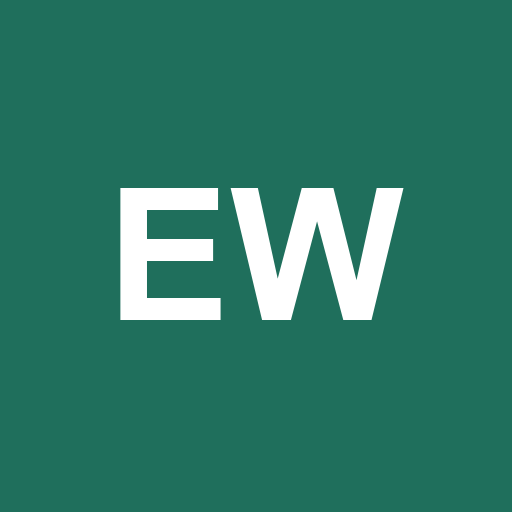
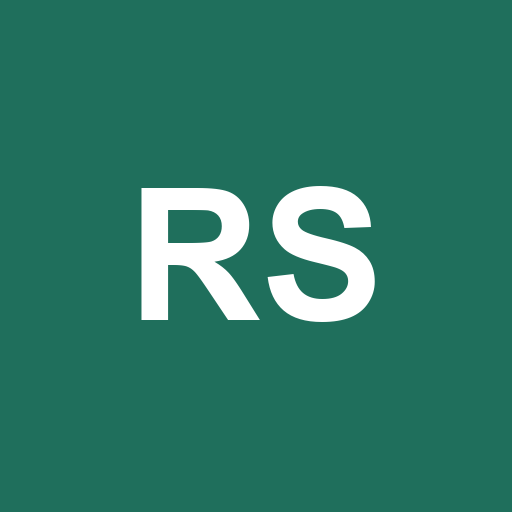
Publicación 20261031-1249-d135cdb

Changed region(s): [[0.2188, 0.3438, 0.7812, 0.6562]]

diff --git a/index.html b/index.html
@@ -6,33 +6,110 @@
   <meta name="theme-color" content="#1f6f5c">
   <!-- App interna: que no aparezca en buscadores -->
   <meta name="robots" content="noindex, nofollow">
-  <title>English for Waiters</title>
+  <title>Restaurant Service Excellence App</title>
   <link rel="stylesheet" href="css/styles.css">
   <!-- Instalar en el celular como app (manifest.webmanifest) -->
   <link rel="manifest" href="manifest.webmanifest">
   <link rel="icon" href="images/app/icon-192.png">
   <link rel="apple-touch-icon" href="images/app/apple-touch-icon.png">
   <meta name="apple-mobile-web-app-capable" content="yes">
-  <meta name="apple-mobile-web-app-title" content="Waiters English">
+  <meta name="apple-mobile-web-app-title" content="Restaurant Excellence">
+  <!-- Pantalla de bienvenida: cae una gota de vino y hace ondas; de ahí salen la campana y los cubiertos, y después el nombre de la app (se quita sola) -->
+  <style>
+    .splash { position: fixed; inset: 0; z-index: 1000; display: flex; flex-direction: column; align-items: center; justify-content: center;
+      background: radial-gradient(circle at 50% 38%, #2f9c82 0%, #1f6f5c 45%, #0d3a30 100%); color: #fff;
+      font-family: -apple-system, BlinkMacSystemFont, "Segoe UI", Helvetica, Arial, sans-serif; transition: opacity .55s ease, transform .55s ease; overflow: hidden; }
+    .splash.fuera { opacity: 0; transform: scale(1.06); pointer-events: none; }
+    .splash-logo { position: relative; width: 210px; height: 210px; animation: sp-emerge 1s cubic-bezier(.2, 1.4, .4, 1) .4s both; }
+    .splash-logo::before { content: ""; position: absolute; inset: 10px; border-radius: 50%; border: 2px solid rgba(255, 255, 255, .55);
+      animation: sp-onda 1.6s ease-out .75s both; }
+    .splash-logo svg { width: 100%; height: 100%; overflow: visible; filter: drop-shadow(0 10px 22px rgba(3, 25, 20, .5)); }
+    .sp-centro { transform-origin: 256px 346px; animation: sp-crece .7s cubic-bezier(.3, 1.5, .5, 1) .65s both; }
+    .sp-izq { transform-origin: 256px 346px; animation: sp-izq .75s cubic-bezier(.3, 1.4, .5, 1) .9s both; }
+    .sp-der { transform-origin: 256px 346px; animation: sp-der .75s cubic-bezier(.3, 1.4, .5, 1) .9s both; }
+    .sp-agua { stroke-dasharray: 260; animation: sp-dibuja .8s ease-out 1.15s both; }
+    /* Destello de luz cuando la estrella llega a la campana */
+    .sp-luz { transform-origin: 256px 110px; animation: sp-luz 1.1s ease-out 2.05s both; }
+    .sp-rayos { transform-origin: 256px 110px; animation: sp-rayos 1s ease-out 2.1s both; }
+    .sp-chispas { transform-origin: 256px 110px; animation: sp-chispas 1.2s ease-out 2.15s both; }
+    .splash::after { content: ""; position: absolute; inset: 0; pointer-events: none; opacity: 0;
+      background: radial-gradient(circle at 50% 40%, rgba(255, 244, 205, .55), rgba(255, 244, 205, 0) 60%); animation: sp-brillo 1s ease-out 2.08s both; }
+    @keyframes sp-luz { 0% { transform: scale(0); opacity: 0; } 25% { opacity: 1; } 100% { transform: scale(1.7); opacity: 0; } }
+    @keyframes sp-rayos { 0% { transform: scale(.3) rotate(-15deg); opacity: 0; } 30% { opacity: 1; } 100% { transform: scale(1.6) rotate(20deg); opacity: 0; } }
+    @keyframes sp-chispas { 0% { transform: scale(.2); opacity: 0; } 35% { opacity: 1; } 100% { transform: scale(1.5) rotate(30deg); opacity: 0; } }
+    @keyframes sp-brillo { 0% { opacity: 0; } 20% { opacity: 1; } 100% { opacity: 0; } }
+    .sp-estrella { transform-origin: 256px 110px; animation: sp-estrella .8s cubic-bezier(.3, 1.6, .5, 1) 1.4s both, sp-brilla 1.4s ease-in-out 2.2s infinite; }
+    .splash-nombre { margin-top: 6px; text-align: center; }
+    .splash-nombre b { display: block; font-size: 30px; font-weight: 800; letter-spacing: .5px; animation: sp-texto .7s ease-out 1.75s both; }
+    .splash-nombre span { display: block; margin-top: 4px; font-size: 15px; font-weight: 600; letter-spacing: 6px; text-transform: uppercase; color: #f2c96b;
+      animation: sp-texto .7s ease-out 2s both; }
+    .splash-linea { width: 0; height: 2px; margin: 14px auto 0; border-radius: 2px; background: #f2c96b; animation: sp-linea .8s ease-out 2.25s both; }
+    /* Gota de vino: cae al centro de la campana y abre ondas que cruzan la pantalla */
+    .splash-agua { position: absolute; left: 50%; top: calc(50% - 43px); width: 0; height: 0; pointer-events: none; }
+    .sp-gota { position: absolute; left: -12px; top: -38px; width: 24px; height: 34px; border-radius: 50% 50% 50% 50% / 62% 62% 38% 38%;
+      background: radial-gradient(circle at 35% 62%, #ffd9e0 0 14%, #c0395f 34%, #7a1433 78%); box-shadow: 0 0 14px rgba(255, 190, 205, .75);
+      animation: sp-cae .42s cubic-bezier(.55, 0, 1, .45) both; }
+    .sp-anillo { position: absolute; left: -60px; top: -60px; width: 120px; height: 120px; border-radius: 50%; opacity: 0;
+      border: 2px solid rgba(255, 240, 205, .85); box-shadow: 0 0 10px rgba(255, 225, 165, .55), inset 0 0 12px rgba(255, 225, 165, .45);
+      animation: sp-anillo 2s cubic-bezier(.2, .6, .35, 1) .42s both; }
+    .sp-anillo:nth-child(4) { animation-delay: .62s; border-width: 3px; }
+    .sp-anillo:nth-child(5) { animation-delay: .84s; }
+    .sp-anillo:nth-child(6) { animation-delay: 1.08s; border-width: 1.5px; }
+    .sp-salpica { position: absolute; left: -40px; top: -40px; width: 80px; height: 80px; border-radius: 50%; opacity: 0;
+      background: radial-gradient(circle, rgba(255, 255, 255, .9), rgba(255, 225, 165, .35) 45%, rgba(255, 225, 165, 0) 70%);
+      animation: sp-salpica .6s ease-out .4s both; }
+    @keyframes sp-cae { 0% { transform: translateY(-60vh) scaleY(1.3); opacity: 0; } 15% { opacity: 1; } 90% { transform: translateY(0) scaleY(1.15); opacity: 1; }
+      100% { transform: translateY(6px) scale(1.6, .3); opacity: 0; } }
+    @keyframes sp-anillo { 0% { transform: scale(.08); opacity: 0; } 12% { opacity: .95; } 100% { transform: scale(9); opacity: 0; } }
+    @keyframes sp-salpica { 0% { transform: scale(.2); opacity: 0; } 30% { opacity: 1; } 100% { transform: scale(2.2); opacity: 0; } }
+    @keyframes sp-emerge { from { transform: translateY(40px) scale(.4); opacity: 0; } }
+    @keyframes sp-onda { 0% { transform: scale(.6); opacity: 0; } 30% { opacity: 1; } 100% { transform: scale(1.7); opacity: 0; } }
+    @keyframes sp-crece { from { transform: scaleY(0); opacity: 0; } }
+    @keyframes sp-izq { from { transform: rotate(40deg) scale(.6); opacity: 0; } }
+    @keyframes sp-der { from { transform: rotate(-40deg) scale(.6); opacity: 0; } }
+    @keyframes sp-dibuja { from { stroke-dashoffset: 260; } to { stroke-dashoffset: 0; } }
+    @keyframes sp-estrella { from { transform: translateY(-90px) rotate(-180deg) scale(0); opacity: 0; } }
+    @keyframes sp-brilla { 50% { filter: drop-shadow(0 0 14px #ffe39a) drop-shadow(0 0 4px #fff); } }
+    @keyframes sp-texto { from { transform: translateY(16px); opacity: 0; } }
+    @keyframes sp-linea { to { width: 120px; } }
+    @media (prefers-reduced-motion: reduce) { .splash-agua { display: none; } .splash *, .splash *::before { animation-duration: .01s !important; animation-delay: 0s !important; } }
+  </style>
 </head>
 <body>
+  <div class="splash" id="splash" aria-hidden="true">
+    <div class="splash-agua"><span class="sp-gota"></span><span class="sp-salpica"></span><span class="sp-anillo"></span><span class="sp-anillo"></span><span class="sp-anillo"></span><span class="sp-anillo"></span></div>
+    <div class="splash-logo">
+      <svg viewBox="0 0 512 512">
+        <g fill="#fff">
+          <!-- Campana de servicio con su asa -->
+          <path class="sp-centro" d="M136 322a120 120 0 0 1 240 0zM256 172a20 20 0 1 1-.01 0z"/>
+          <!-- Tenedor -->
+          <path class="sp-izq" d="M58 176h9v48h8v-48h9v48h8v-48h9v62a20 20 0 0 1-14 19v143a9 9 0 0 1-18 0V257a20 20 0 0 1-14-19z"/>
+          <!-- Cuchillo -->
+          <path class="sp-der" d="M430 176c22 14 30 52 30 104h-14v120a9 9 0 0 1-18 0V180a3 3 0 0 1 2-4z"/>
+        </g>
+        <!-- Charola -->
+        <path class="sp-agua" d="M124 350h264" stroke="#fff" stroke-width="16" fill="none" stroke-linecap="round"/>
+        <defs><radialGradient id="sp-luz"><stop offset="0" stop-color="#fffbe8"/><stop offset=".35" stop-color="#ffe7a3" stop-opacity=".85"/><stop offset="1" stop-color="#ffe39a" stop-opacity="0"/></radialGradient></defs>
+        <circle class="sp-luz" cx="256" cy="110" r="130" fill="url(#sp-luz)"/>
+        <g class="sp-rayos" stroke="#fff1bd" stroke-width="7" stroke-linecap="round"><line x1="304" y1="110" x2="352" y2="110"/><line x1="298" y1="134" x2="322" y2="148"/><line x1="280" y1="152" x2="304" y2="193"/><line x1="256" y1="158" x2="256" y2="186"/><line x1="232" y1="152" x2="208" y2="193"/><line x1="214" y1="134" x2="190" y2="148"/><line x1="208" y1="110" x2="160" y2="110"/><line x1="214" y1="86" x2="190" y2="72"/><line x1="232" y1="68" x2="208" y2="27"/><line x1="256" y1="62" x2="256" y2="34"/><line x1="280" y1="68" x2="304" y2="27"/><line x1="298" y1="86" x2="322" y2="72"/></g>
+        <g class="sp-chispas" fill="#fff6d2"><circle cx="367" cy="157" r="6"/><circle cx="203" cy="201" r="5"/><circle cx="128" cy="89" r="4"/><circle cx="243" cy="-4" r="6"/><circle cx="334" cy="47" r="4"/><circle cx="307" cy="240" r="4"/></g>
+        <path class="sp-estrella" d="M256 70l13 27 30 4-22 21 5 30-26-14-26 14 5-30-22-21 30-4z" fill="#f2c96b"/>
+      </svg>
+    </div>
+    <div class="splash-nombre"><b>Restaurant Service</b><span>Excellence App</span><div class="splash-linea"></div></div>
+  </div>
+  <script>
+    // Se quita sola a los 3.7 s (o al tocarla).
+    (function () {
+      var s = document.getElementById("splash"), listo = false;
+      function quitar() { if (listo) return; listo = true; s.classList.add("fuera"); setTimeout(function () { s.remove(); }, 600); }
+      s.addEventListener("click", quitar);
+      setTimeout(quitar, 3700);
+    })();
+  </script>
   <main id="app" class="container"></main>
 
-  <nav class="tabbar" aria-label="Menú principal">
-    <div class="nav-brand">
-      <span class="nav-mark">EW</span>
-      <span class="nav-brand-text"><strong>English for Waiters</strong><small>Inglés de servicio · Restaurantes</small></span>
-    </div>
-    <p class="nav-section">Estudiar</p>
-    <a href="#/"><svg class="nav-icon" viewBox="0 0 24 24" aria-hidden="true"><path d="M3.5 11 12 4l8.5 7M6 9.5V20h4.5v-5.5h3V20H18V9.5"/></svg><span class="nav-label">Inicio</span></a>
-    <a href="#/vocab"><svg class="nav-icon" viewBox="0 0 24 24" aria-hidden="true"><path d="M4 5.5A1.5 1.5 0 0 1 5.5 4H11v15H5.5A1.5 1.5 0 0 0 4 20.5zM20 5.5A1.5 1.5 0 0 0 18.5 4H13v15h5.5a1.5 1.5 0 0 1 1.5 1.5zM11 19h2"/></svg><span class="nav-label">Vocabulario</span></a>
-    <a href="#/frases"><svg class="nav-icon" viewBox="0 0 24 24" aria-hidden="true"><path d="M4 5h11v8H8l-4 3.5zM15 9h5v8h-1v3l-3.5-3H10v-4"/></svg><span class="nav-label">Frases</span></a>
-    <a href="#/menu"><svg class="nav-icon" viewBox="0 0 24 24" aria-hidden="true"><path d="M6 3h12v18H6z"/><path d="M9 7.5h6M9 11h6M9 14.5h4"/></svg><span class="nav-label">Menús</span></a>
-    <a href="#/vinos"><svg class="nav-icon" viewBox="0 0 24 24" aria-hidden="true"><path d="M8 3h8c0 4.5-1.5 8-4 8s-4-3.5-4-8zM12 11v9M8.5 21h7M8.3 6.5h7.4"/></svg><span class="nav-label">Vinos</span></a>
-    <a href="#/script"><svg class="nav-icon" viewBox="0 0 24 24" aria-hidden="true"><path d="M7 3h10v4H7zM5 7h14v14H5z"/><path d="M8.5 11.5h7M8.5 14.5h7M8.5 17.5h4"/></svg><span class="nav-label">Service Script</span></a>
-    <a href="#/practicar"><svg class="nav-icon" viewBox="0 0 24 24" aria-hidden="true"><circle cx="12" cy="12" r="8.5"/><circle cx="12" cy="12" r="4.5"/><circle cx="12" cy="12" r="1"/></svg><span class="nav-label">Practicar</span></a>
-    <p class="nav-foot">Estándares AAA · Hotelería</p>
-  </nav>
 
   <script src="js/data.js"></script>
   <!-- Menús y vinos reales del hotel; si no existe, la app usa el menú de ejemplo -->

diff --git a/js/app.js b/js/app.js
@@ -190,28 +190,35 @@ const colorTile = ({ href, i, icon, title, sub = "", meta = "", attrs = "" }) =>
   </${href ? "a" : "button"}>`;
 
 // ---------- Vistas ----------
+// Imagen para una frase: la de la palabra del vocabulario que aparece en ella (primero las palabras más
+// largas, para que "wine list" gane sobre "wine" y "kitchen" sobre "check"; a igual largo, las de Canva).
+const WORDS_WITH_PHOTO = ALL_WORDS.filter((w) => PHOTOS[w.en]);
+function phraseImage(en) {
+  let best = null;
+  for (const w of WORDS_WITH_PHOTO) {
+    for (const t of w.en.split("/").map((x) => x.trim())) {
+      if (t.length < 3 || /^to /i.test(t)) continue;
+      if (!new RegExp(`\\b${t.replace(/[.*+?^${}()|[\]\\]/g, "\\$&")}(s|es)?\\b`, "i").test(en)) continue;
+      const canva = PHOTOS[w.en].source === "canva";
+      if (!best || t.length > best.len || (t.length === best.len && canva && !best.canva)) best = { word: w, photo: PHOTOS[w.en], len: t.length, canva };
+    }
+  }
+  return best;
+}
+// Solo frases que tienen una imagen relacionada (si ninguna tuviera, cualquiera).
+const PHRASES_WITH_IMAGE = ALL_PHRASES.filter((p) => phraseImage(p.en));
+
 function viewHome() {
-  const tip = ALL_PHRASES[Math.floor(Math.random() * ALL_PHRASES.length)];
+  const pool = PHRASES_WITH_IMAGE.length ? PHRASES_WITH_IMAGE : ALL_PHRASES;
+  const tip = pool[Math.floor(Math.random() * pool.length)];
+  const tipImg = phraseImage(tip.en);
   const pct = Math.round((known.size / ALL_WORDS.length) * 100);
   const best = store.get("bestQuiz", null);
   return `
     ${USO.badge()}
     <section class="hero">
-      <h1>English for Waiters</h1>
+      <h1>Restaurant Service Excellence App</h1>
       <p>Estudia a tu ritmo el inglés que usas en el servicio.</p>
-    </section>
-
-    <section class="card">
-      <h2>Tu progreso</h2>
-      <div class="progress"><div style="width:${pct}%"></div></div>
-      <p class="muted">${known.size} de ${ALL_WORDS.length} palabras marcadas como aprendidas${best !== null ? ` · Mejor quiz: ${best}/10` : ""}</p>
-    </section>
-
-    <section class="card tip">
-      <h2>Frase del día</h2>
-      <p class="en big">${esc(tip.en)}</p>
-      <p class="muted">${esc(tip.es)}</p>
-      <div class="row">${speakButtons(tip.en)}</div>
     </section>
 
     <nav class="rest-grid home-grid">
@@ -226,7 +233,23 @@ function viewHome() {
       ]
         .map(([href, key, title, sub], i) => colorTile({ href, i, icon: MENU_ICONS[key], title, sub }))
         .join("")}
-    </nav>`;
+    </nav>
+
+    <section class="card">
+      <h2>Tu progreso</h2>
+      <div class="progress"><div style="width:${pct}%"></div></div>
+      <p class="muted">${known.size} de ${ALL_WORDS.length} palabras marcadas como aprendidas${best !== null ? ` · Mejor quiz: ${best}/10` : ""}</p>
+    </section>
+
+    <section class="card tip ${tipImg ? "has-img" : ""}">
+      ${tipImg ? `<img class="tip-img" src="${esc(tipImg.photo.src)}" alt="${esc(tipImg.word.en)}" data-zoom="${esc(tipImg.word.en)}">` : ""}
+      <div class="tip-text">
+        <h2>Frase del día</h2>
+        <p class="en big">${tipImg ? highlight(tip.en, tipImg.word.en) : esc(tip.en)}</p>
+        <p class="muted">${esc(tip.es)}</p>
+        <div class="row">${speakButtons(tip.en)}</div>
+      </div>
+    </section>`;
 }
 
 let currentWords = [];
@@ -927,11 +950,12 @@ function render() {
   const view = ROUTES[route] || viewHome;
   session = null;
   const param0 = params[0] && decodeURIComponent(params[0]);
-  $("#app").innerHTML = view(...params.map(decodeURIComponent));
+  // Fuera de Inicio, una barra arriba para regresar a los recuadros (ya no hay menú principal aparte).
+  const homeBar = route
+    ? `<header class="home-bar"><a href="#/" class="home-back">← Inicio</a><span class="home-brand"><span class="nav-mark">RS</span>Restaurant Service</span></header>`
+    : "";
+  $("#app").innerHTML = homeBar + view(...params.map(decodeURIComponent));
   trackView(route, param0, params[1]);
-  document.querySelectorAll(".tabbar a").forEach((a) => {
-    a.classList.toggle("active", a.getAttribute("href") === `#/${route}`);
-  });
   const wordsStart = route === "vocab" && params[0] ? $("#words-start") : null;
   if (wordsStart) wordsStart.scrollIntoView();
   else window.scrollTo(0, 0);

diff --git a/css/styles.css b/css/styles.css
@@ -461,3 +461,24 @@ button.rest-tile { font: inherit; color: inherit; padding: 0; cursor: pointer; t
 .wine-tile span { display: flex; flex-direction: column; line-height: 1.2; }
 .wine-tile small { opacity: 0.9; }
 .rest-grid + .muted { margin-top: 14px; }
+
+/* Sin menú principal: Inicio (recuadros de color) es el menú; las demás secciones tienen "← Inicio" arriba */
+body { padding-left: 0 !important; }
+.container { padding-bottom: calc(40px + env(safe-area-inset-bottom)) !important; }
+.float-back { bottom: calc(20px + env(safe-area-inset-bottom)) !important; }
+.home-bar { position: sticky; top: 0; z-index: 6; display: flex; align-items: center; justify-content: space-between; gap: 10px;
+  margin: -16px -16px 14px; padding: 10px 16px; background: color-mix(in srgb, var(--bg) 88%, transparent);
+  backdrop-filter: blur(8px); -webkit-backdrop-filter: blur(8px); border-bottom: 1px solid var(--border); }
+.home-back { font-weight: 700; color: #fff; background: var(--accent); border-radius: 99px; padding: 8px 16px; }
+.home-brand { display: flex; align-items: center; gap: 8px; font-weight: 700; font-size: 0.9rem; color: var(--muted); }
+.home-brand .nav-mark { display: grid; place-items: center; width: 28px; height: 28px; border-radius: 8px; background: var(--accent);
+  color: #fff; font-size: 0.7rem; font-weight: 800; }
+@media (prefers-color-scheme: dark) { .home-back, .home-brand .nav-mark { color: #131816; } }
+.home-grid { margin-bottom: 14px; }
+
+/* Frase del día con imagen de la palabra que menciona */
+.tip.has-img { display: flex; gap: 16px; align-items: center; }
+.tip-img { width: 130px; height: 130px; flex-shrink: 0; object-fit: cover; border-radius: 14px; cursor: zoom-in;
+  box-shadow: 0 4px 14px rgba(0, 0, 0, 0.12); background: #fff; }
+.tip-text { min-width: 0; }
+@media (max-width: 480px) { .tip.has-img { flex-direction: column; align-items: stretch; } .tip-img { width: 100%; height: 190px; } }

diff --git a/sw.js b/sw.js
@@ -3,7 +3,7 @@
 //   actualizaciones lleguen en cuanto haya señal.
 // - Imágenes y audios se guardan la primera vez que se usan y desde ahí salen del celular.
 // scripts/publicar.py cambia VERSION en cada publicación para renovar lo guardado.
-const VERSION = "20261018-1257-a5b2bca";
+const VERSION = "20261031-1249-d135cdb";
 const SHELL_CACHE = `app-${VERSION}`;
 const MEDIA_CACHE = `media-${VERSION}`;
 const SHELL = [
